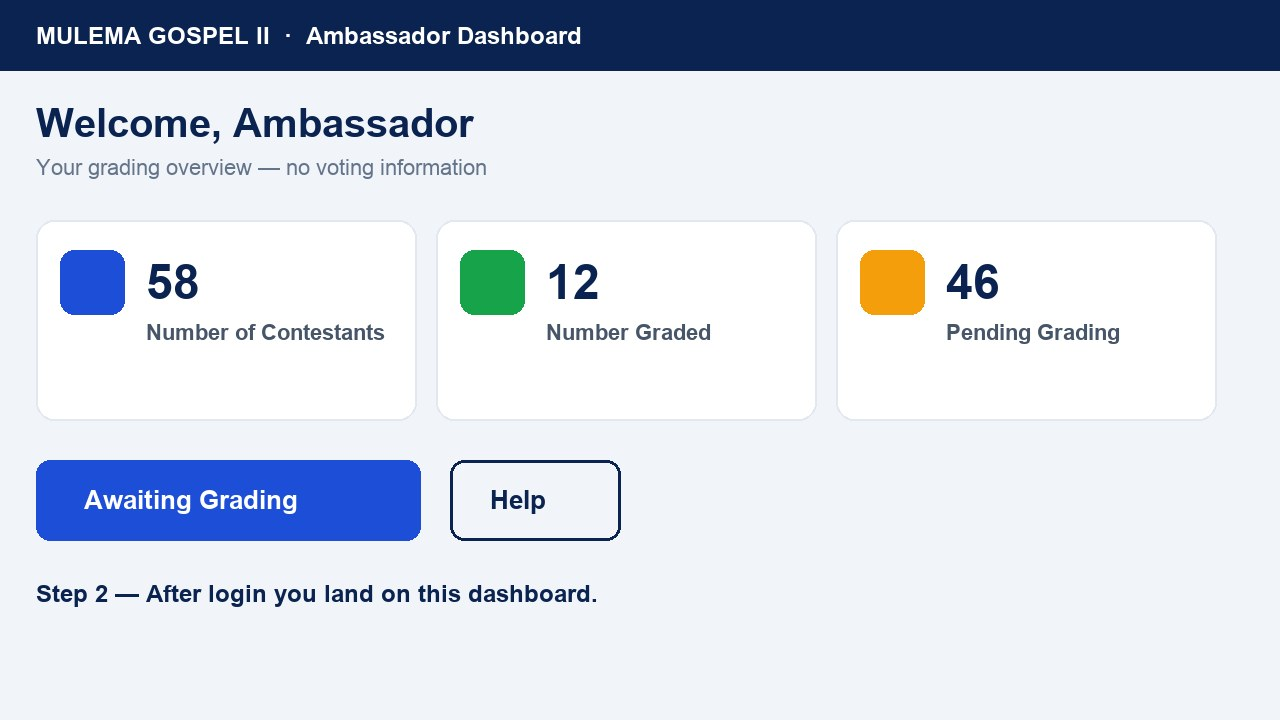
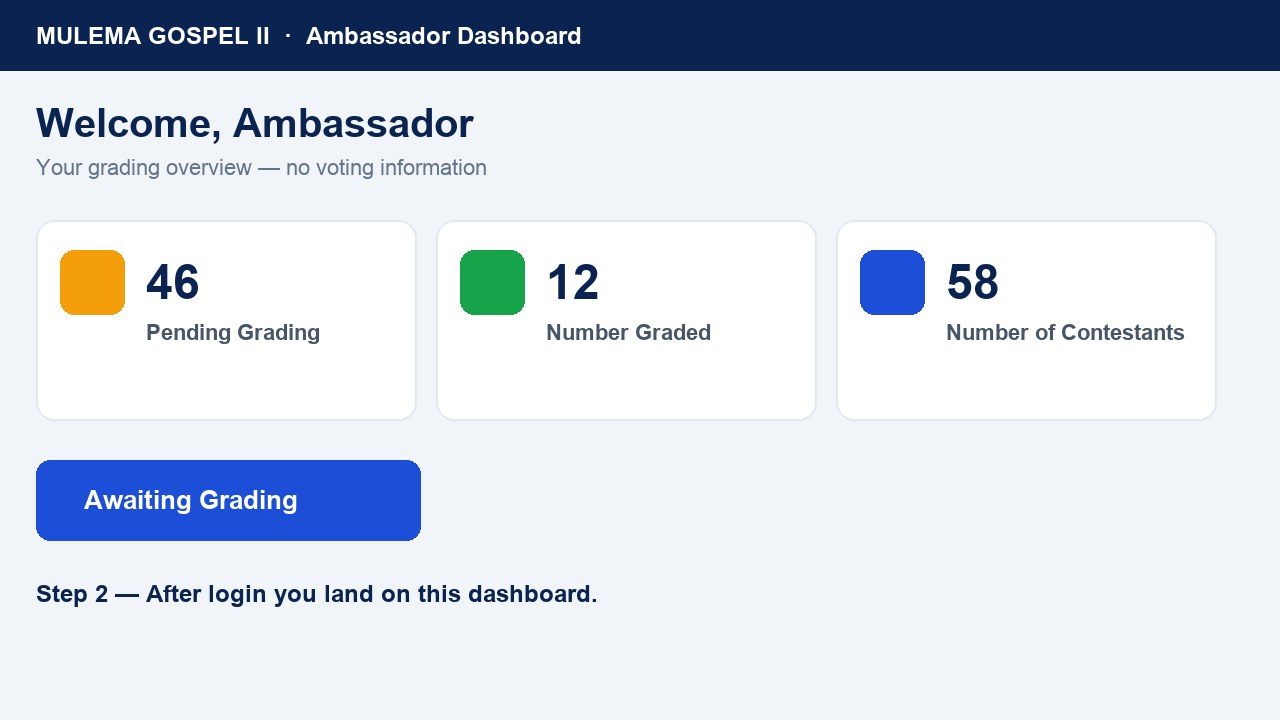
Swap grader dashboard cards and always require OTP for Ambassadors.

diff --git a/resources/views/index.blade.php b/resources/views/index.blade.php
@@ -56,20 +56,6 @@
     </div>
 
     <div class="ms-stat-grid mg-grader-stats">
-      <div class="ms-stat" style="--ms-accent:#1d4ed8;">
-        <div class="ms-stat-icon"><i class="fa fa-microphone"></i></div>
-        <div class="ms-stat-body">
-          <div class="ms-stat-value">{{ number_format($totalContestants) }}</div>
-          <div class="ms-stat-label">Number of Contestants</div>
-        </div>
-      </div>
-      <a href="{{ $listingRoute }}" class="ms-stat" style="--ms-accent:#16a34a;">
-        <div class="ms-stat-icon"><i class="fa fa-check-circle"></i></div>
-        <div class="ms-stat-body">
-          <div class="ms-stat-value">{{ number_format($gradedByMe) }}</div>
-          <div class="ms-stat-label">Number Graded</div>
-        </div>
-      </a>
       <a href="{{ $awaitingRoute }}" class="ms-stat" style="--ms-accent:#f59e0b;">
         <div class="ms-stat-icon"><i class="fa fa-hourglass-half"></i></div>
         <div class="ms-stat-body">
@@ -77,6 +63,20 @@
           <div class="ms-stat-label">Pending Grading</div>
         </div>
       </a>
+      <a href="{{ $listingRoute }}" class="ms-stat" style="--ms-accent:#16a34a;">
+        <div class="ms-stat-icon"><i class="fa fa-check-circle"></i></div>
+        <div class="ms-stat-body">
+          <div class="ms-stat-value">{{ number_format($gradedByMe) }}</div>
+          <div class="ms-stat-label">Number Graded</div>
+        </div>
+      </a>
+      <div class="ms-stat" style="--ms-accent:#1d4ed8;">
+        <div class="ms-stat-icon"><i class="fa fa-microphone"></i></div>
+        <div class="ms-stat-body">
+          <div class="ms-stat-value">{{ number_format($totalContestants) }}</div>
+          <div class="ms-stat-label">Number of Contestants</div>
+        </div>
+      </div>
     </div>
 
     <div class="mg-grader-cta">

diff --git a/app/Http/Middleware/CheckOtpVerification.php b/app/Http/Middleware/CheckOtpVerification.php
@@ -5,24 +5,37 @@ namespace App\Http\Middleware;
 use Closure;
 use Illuminate\Http\Request;
 use Illuminate\Support\Facades\Auth;
+use Illuminate\Support\Facades\DB;
 
 class CheckOtpVerification
 {
     public function handle(Request $request, Closure $next)
     {
-        if (!config('app.login_otp_enabled', true)) {
-            return $next($request);
-        }
-
         if ($request->routeIs('check.otp', 'check.otp.store', 'check.otp.resend', 'check.otp.cancel', 'logout')) {
             return $next($request);
         }
 
         $user = Auth::user();
-        if ($user && (int) $user->otp_verify === 0) {
+        if ($user && $this->userRequiresLoginOtp($user) && (int) $user->otp_verify === 0) {
             return redirect()->route('check.otp');
         }
 
         return $next($request);
+    }
+
+    /** Match LoginController: global flag, or always for Ambassador / Judge. */
+    protected function userRequiresLoginOtp($user): bool
+    {
+        if (config('app.login_otp_enabled', true)) {
+            return true;
+        }
+
+        $role = strtolower((string) (
+            optional($user->role)->name
+            ?: optional(DB::table('roles')->find($user->role_id))->name
+            ?: ''
+        ));
+
+        return in_array($role, ['ambassador', 'judge'], true);
     }
 }

diff --git a/app/Http/Controllers/Auth/LoginController.php b/app/Http/Controllers/Auth/LoginController.php
@@ -82,7 +82,7 @@ class LoginController extends Controller
 
             $user = Auth::user();
 
-            if ($user && config('app.login_otp_enabled', true)) {
+            if ($user && $this->userRequiresLoginOtp($user)) {
                 $user->update(['otp_verify' => 0]);
                 return redirect()->route('check.otp');
             }
@@ -102,6 +102,24 @@ class LoginController extends Controller
 
 
 
+    }
+
+    /**
+     * OTP after password login when globally enabled, or always for Ambassadors / Judges.
+     */
+    protected function userRequiresLoginOtp($user): bool
+    {
+        if (config('app.login_otp_enabled', true)) {
+            return true;
+        }
+
+        $role = strtolower((string) (
+            optional($user->role)->name
+            ?: optional(\DB::table('roles')->find($user->role_id))->name
+            ?: ''
+        ));
+
+        return in_array($role, ['ambassador', 'judge'], true);
     }
 
 }

diff --git a/config/app.php b/config/app.php
@@ -22,16 +22,16 @@ return [
     | Bump this on each release. Displayed on the login screen and footer.
     */
 
-    'version' => env('APP_VERSION', '3.0.21'),
+    'version' => env('APP_VERSION', '3.0.22'),
 
-    'version_label' => 'MGT V.' . env('APP_VERSION', '3.0.21'),
+    'version_label' => 'MGT V.' . env('APP_VERSION', '3.0.22'),
 
     /*
     |--------------------------------------------------------------------------
     | Login OTP
     |--------------------------------------------------------------------------
-    | When enabled, users must verify a WhatsApp OTP after login. Disabled by
-    | default; flip LOGIN_OTP_ENABLED=true in .env to turn it back on.
+    | When LOGIN_OTP_ENABLED=true, all users verify a WhatsApp OTP after login.
+    | Ambassadors and Judges always require OTP even if this flag is false.
     */
     'login_otp_enabled' => env('LOGIN_OTP_ENABLED', true),
 
